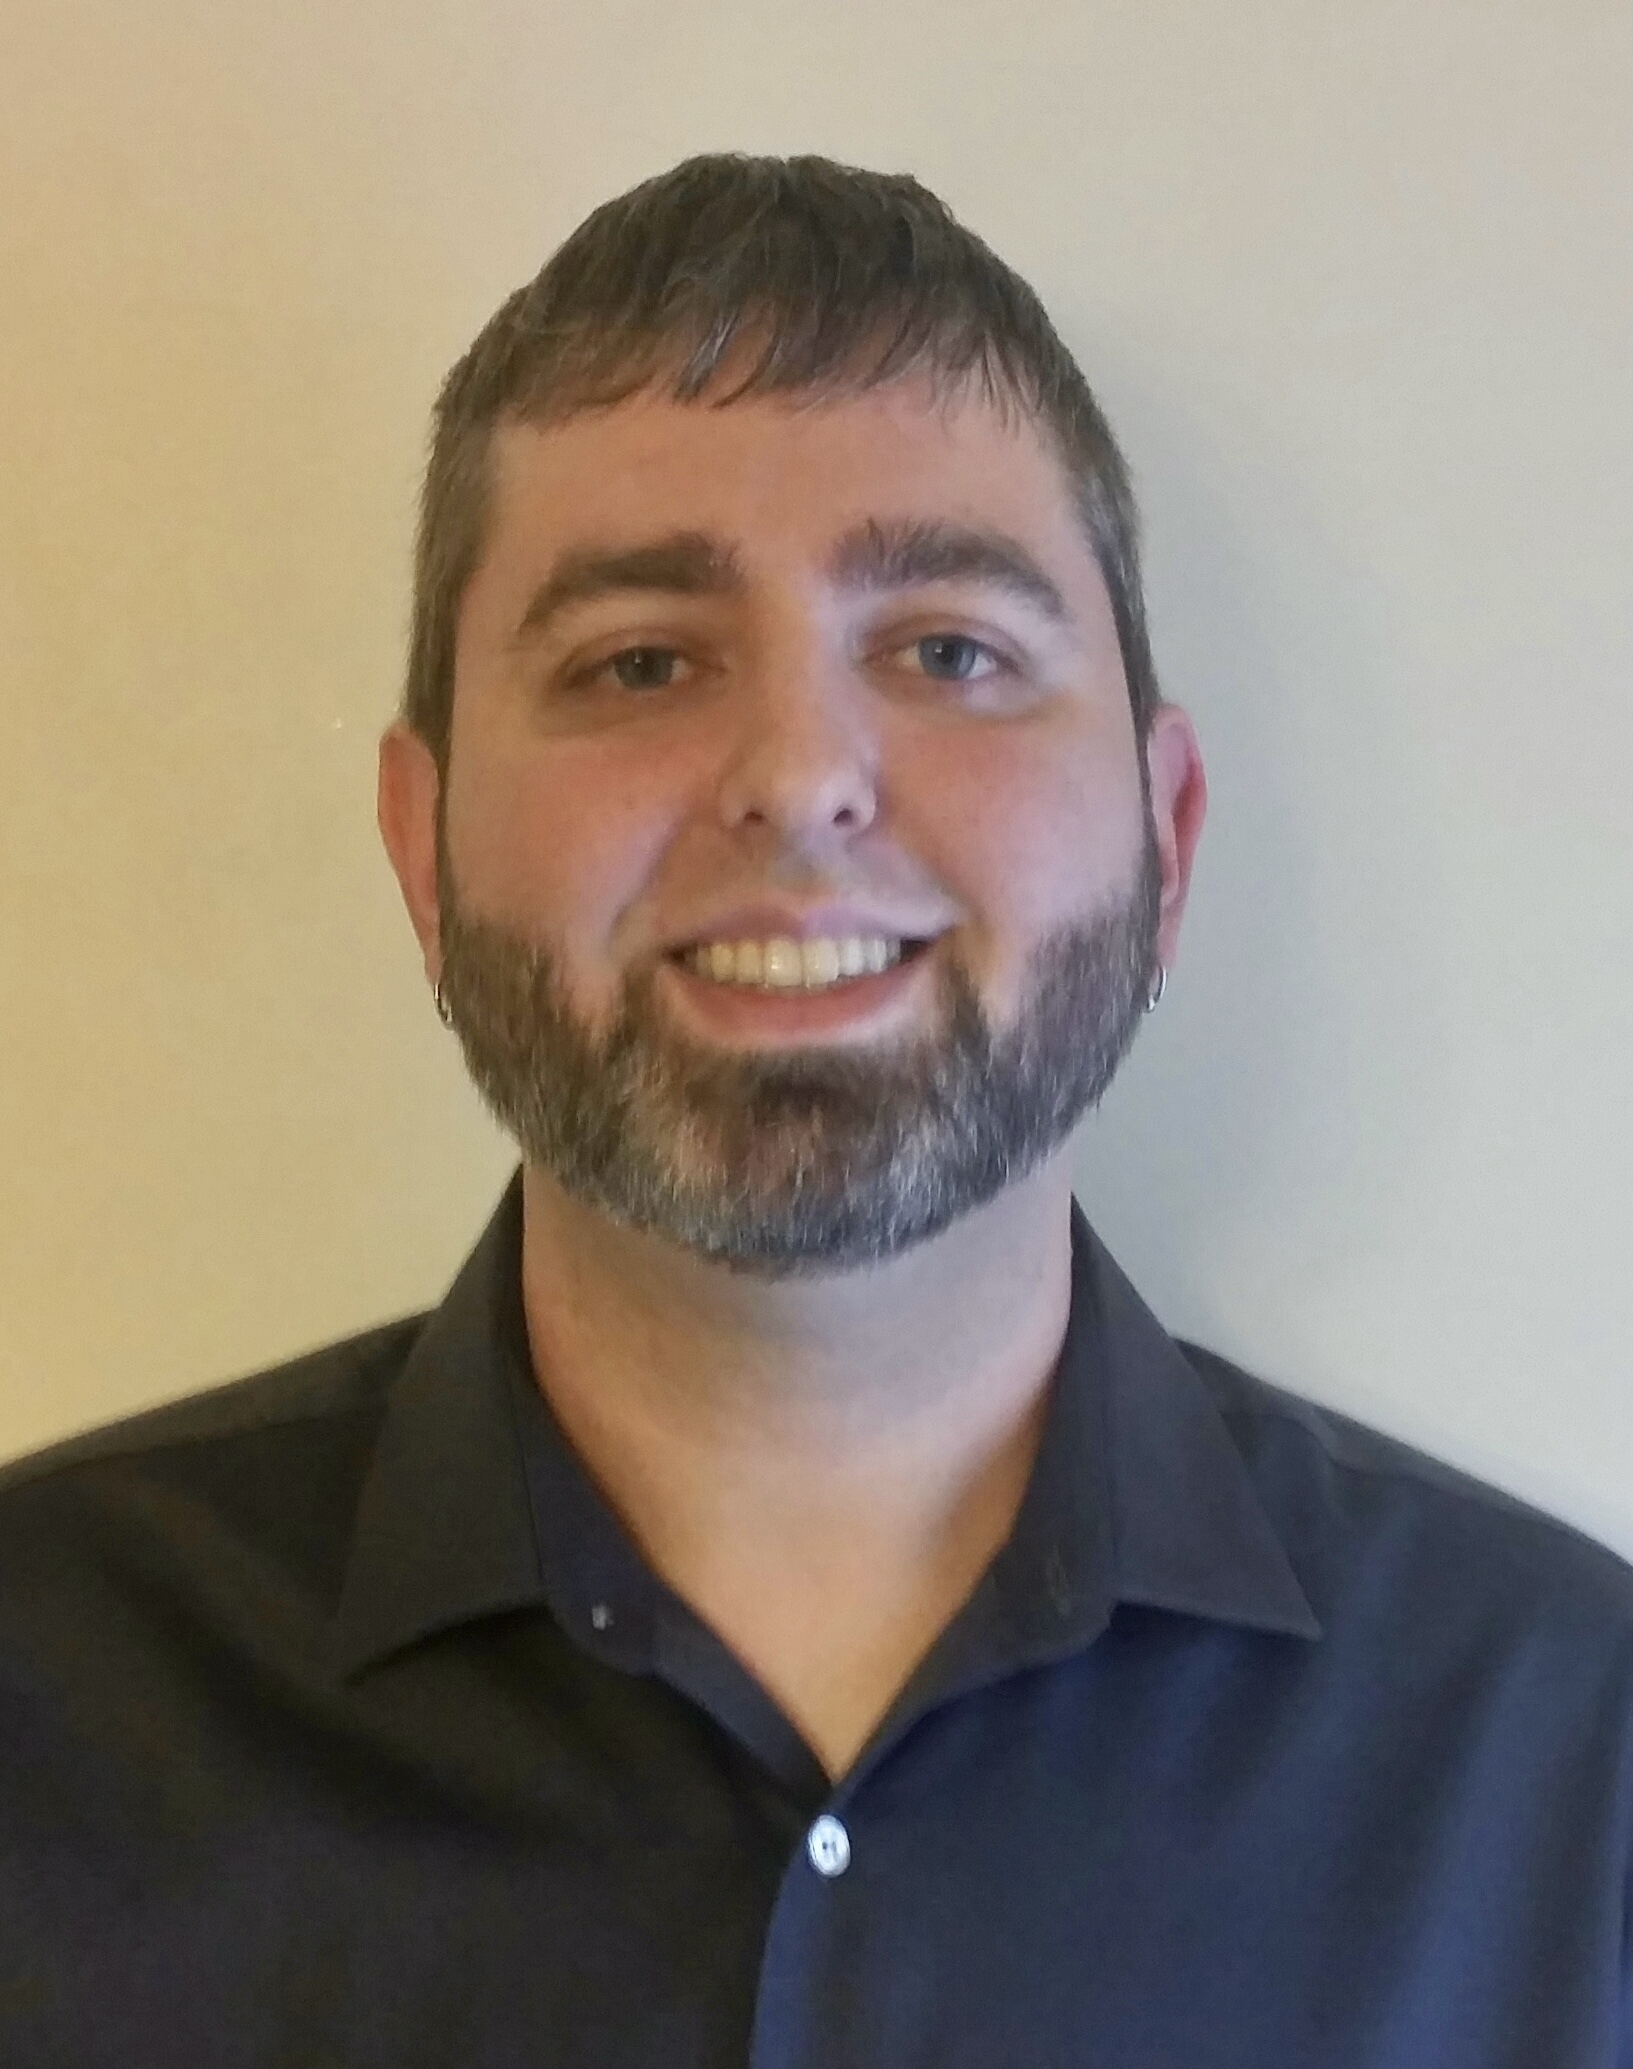
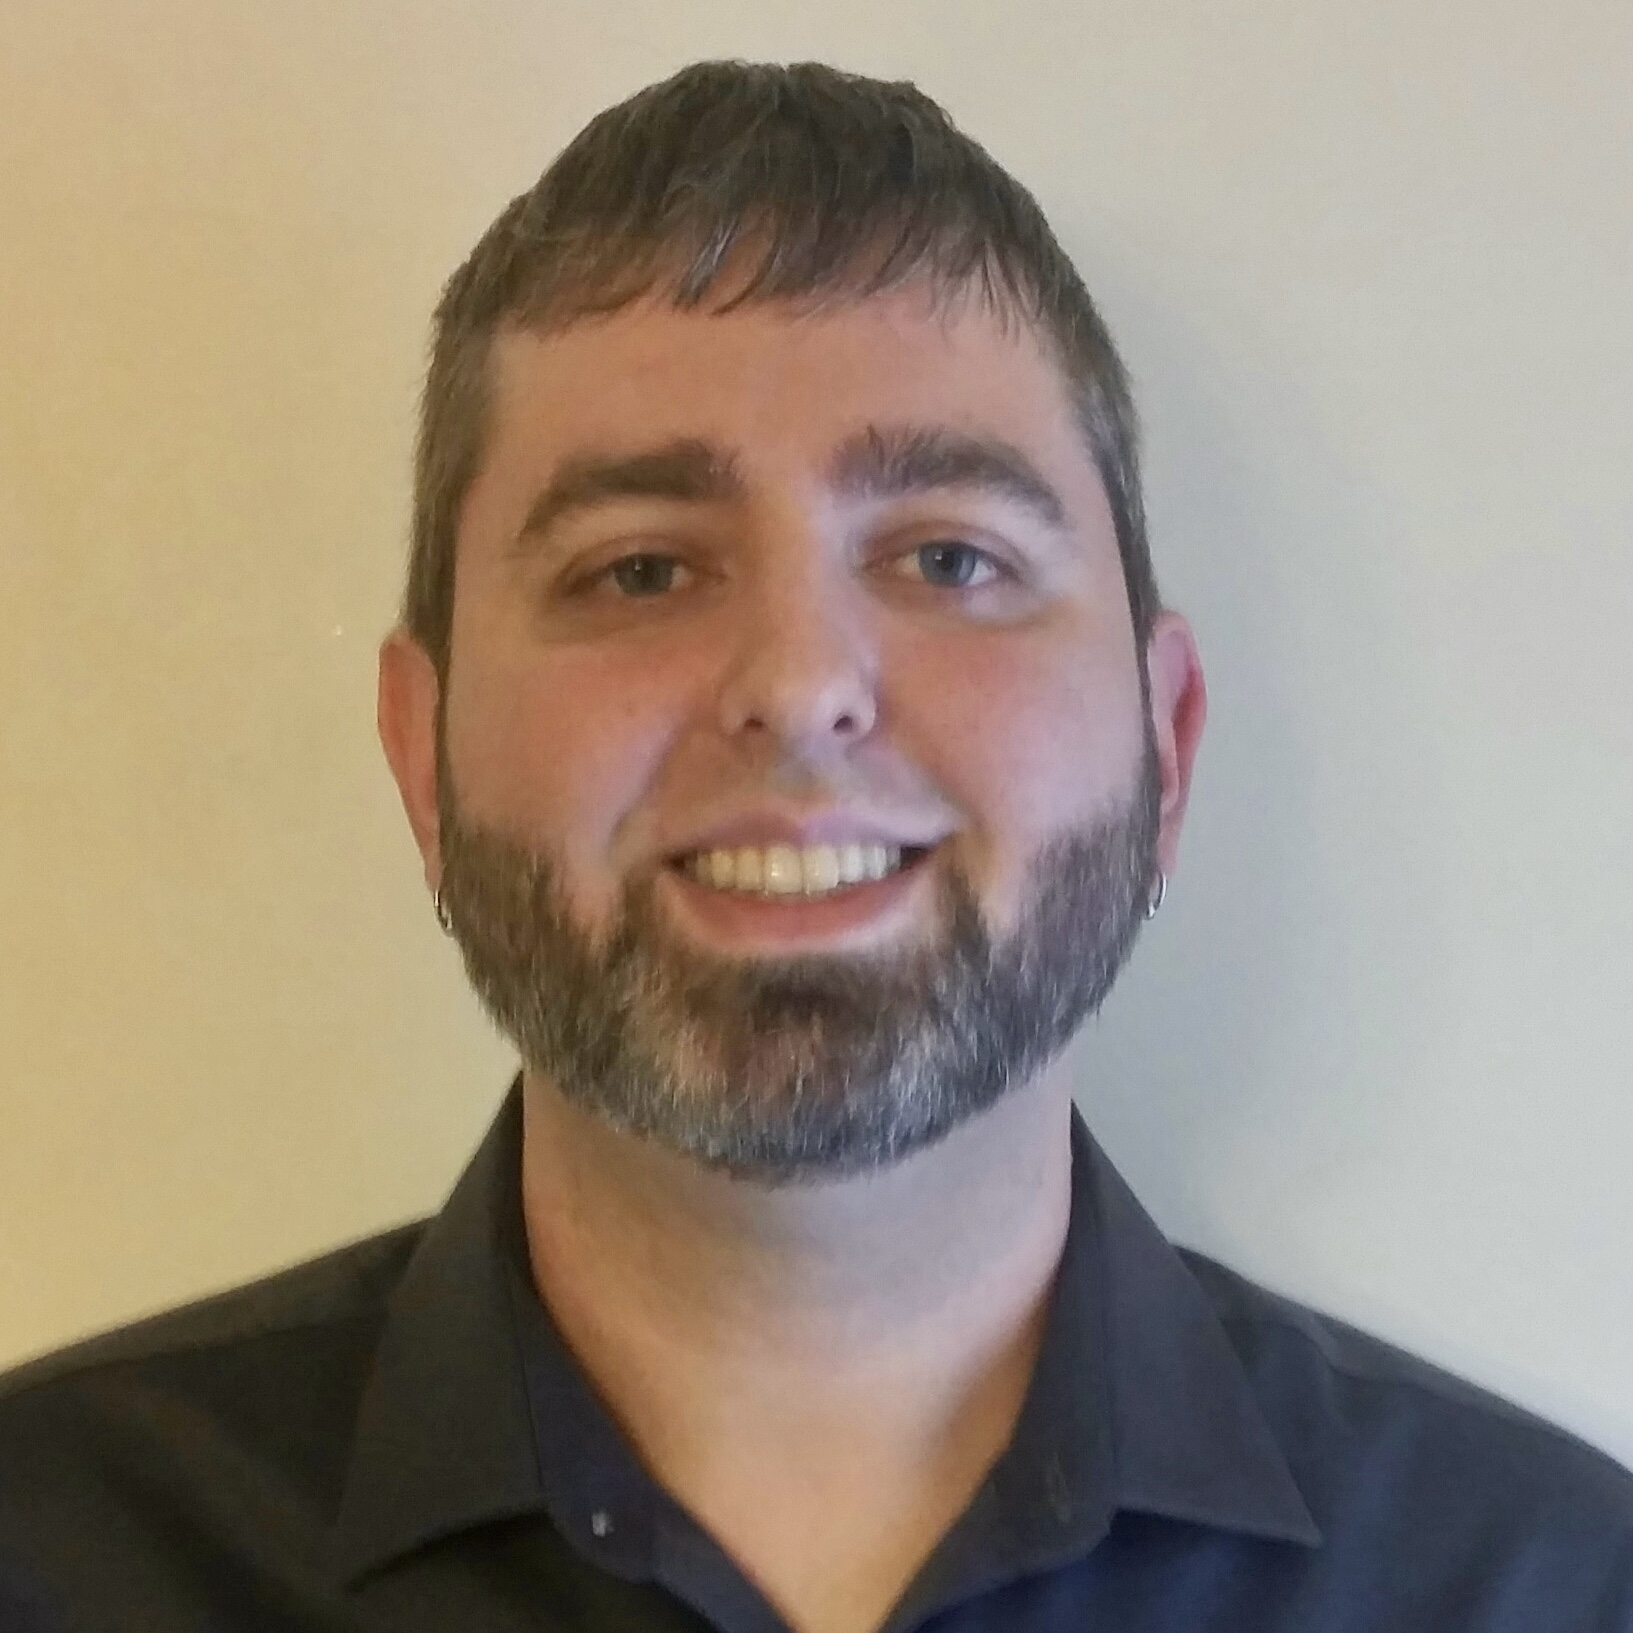
add styling

diff --git a/index.html b/index.html
@@ -39,7 +39,7 @@
 			<header id="header">
 				<div class="inner">
 					<a href="#" class="image avatar"><img src="images/avatar.jpg" alt="" /></a>
-					<h1><strong>I am Adam Lovett</strong>, a Full-Stack <br />
+					<h1>I am <strong>Adam Lovett</strong>, a Full-Stack <br />
 					Software Engineer based in Los Angeles.<br />
 					
 				</div>
@@ -52,12 +52,12 @@
 					<section id="one">
 						<header class="major">
 							<h2>Need a high quality full stack developer?<br />
-							The search is over.</h2>
+							<strong class="search-over">The search is over.</strong></h2>
 						</header>
 						<p>I have been developing as a hobbyist for nearly 27 years. I've built web based and non-web based applications using technologies including JavaScript, React, Redux, Express, HTML5, CSS, Python, PostgreSQL, PostGIS, MySQL, Java, C++, Ruby, and more.
 							I am capable, enthusiastic, and ready to join a great engineering team.
 						</p>
-						<p>App Academy — Full Stack Web Development Certificate — Spring '21<br>
+						<p class="education">App Academy — Full Stack Web Development Certificate — Spring '21<br>
 							University of Southern California — MS — Computer Science — Spring '19<br>
 							Florida Atlantic University — BS — Computer Science — Spring '17
 						</p>

diff --git a/assets/css/main.css b/assets/css/main.css
@@ -37,6 +37,22 @@ body {
 	line-height: 1;
 }
 
+.education {
+	width: 100%;
+	text-align:justify;
+}
+
+.search-over {
+	font-weight: 900;
+	color: #3eb08f;
+}
+
+/* .education-span {
+	width: 350px;
+	height:1em;
+	display:inline-block;
+} */
+
 #resume-holder {
 	z-index: 2;
 	position: fixed;
@@ -2160,6 +2176,7 @@ input, select, textarea {
 
 		.image.avatar {
 			border-radius: 100%;
+			box-shadow: 2px 2px 7px #3eb08f, -2px -2px 7px #3eb08f, -2px 2px 7px #3eb08f, 2px -2px 7px #3eb08f;
 		}
 
 			.image.avatar:before {
